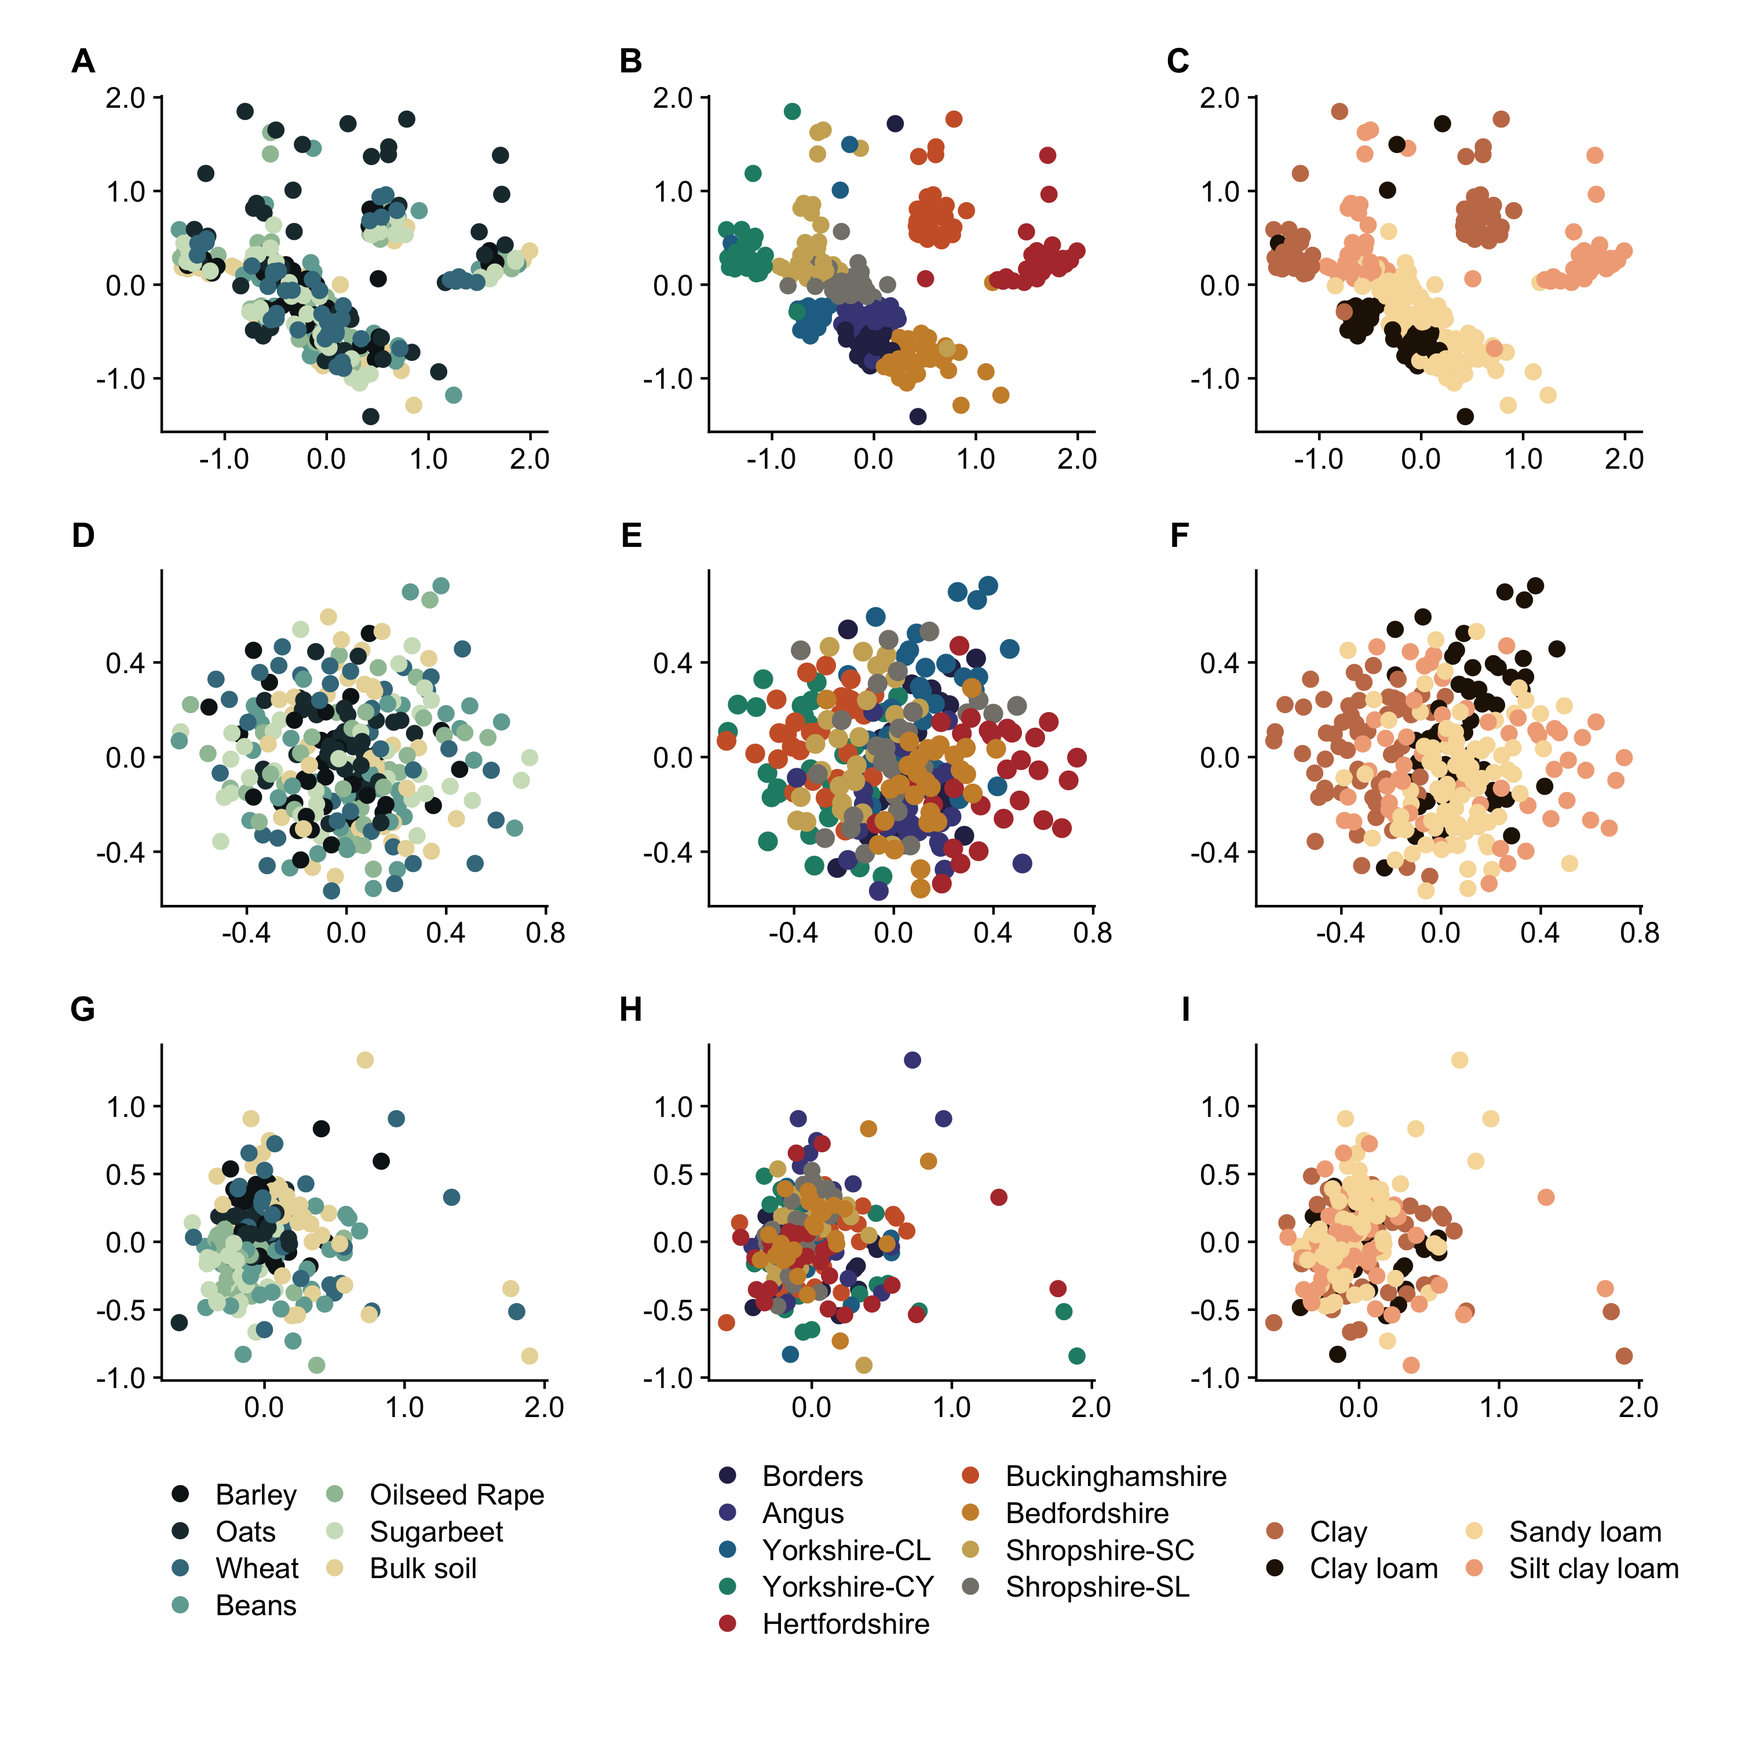
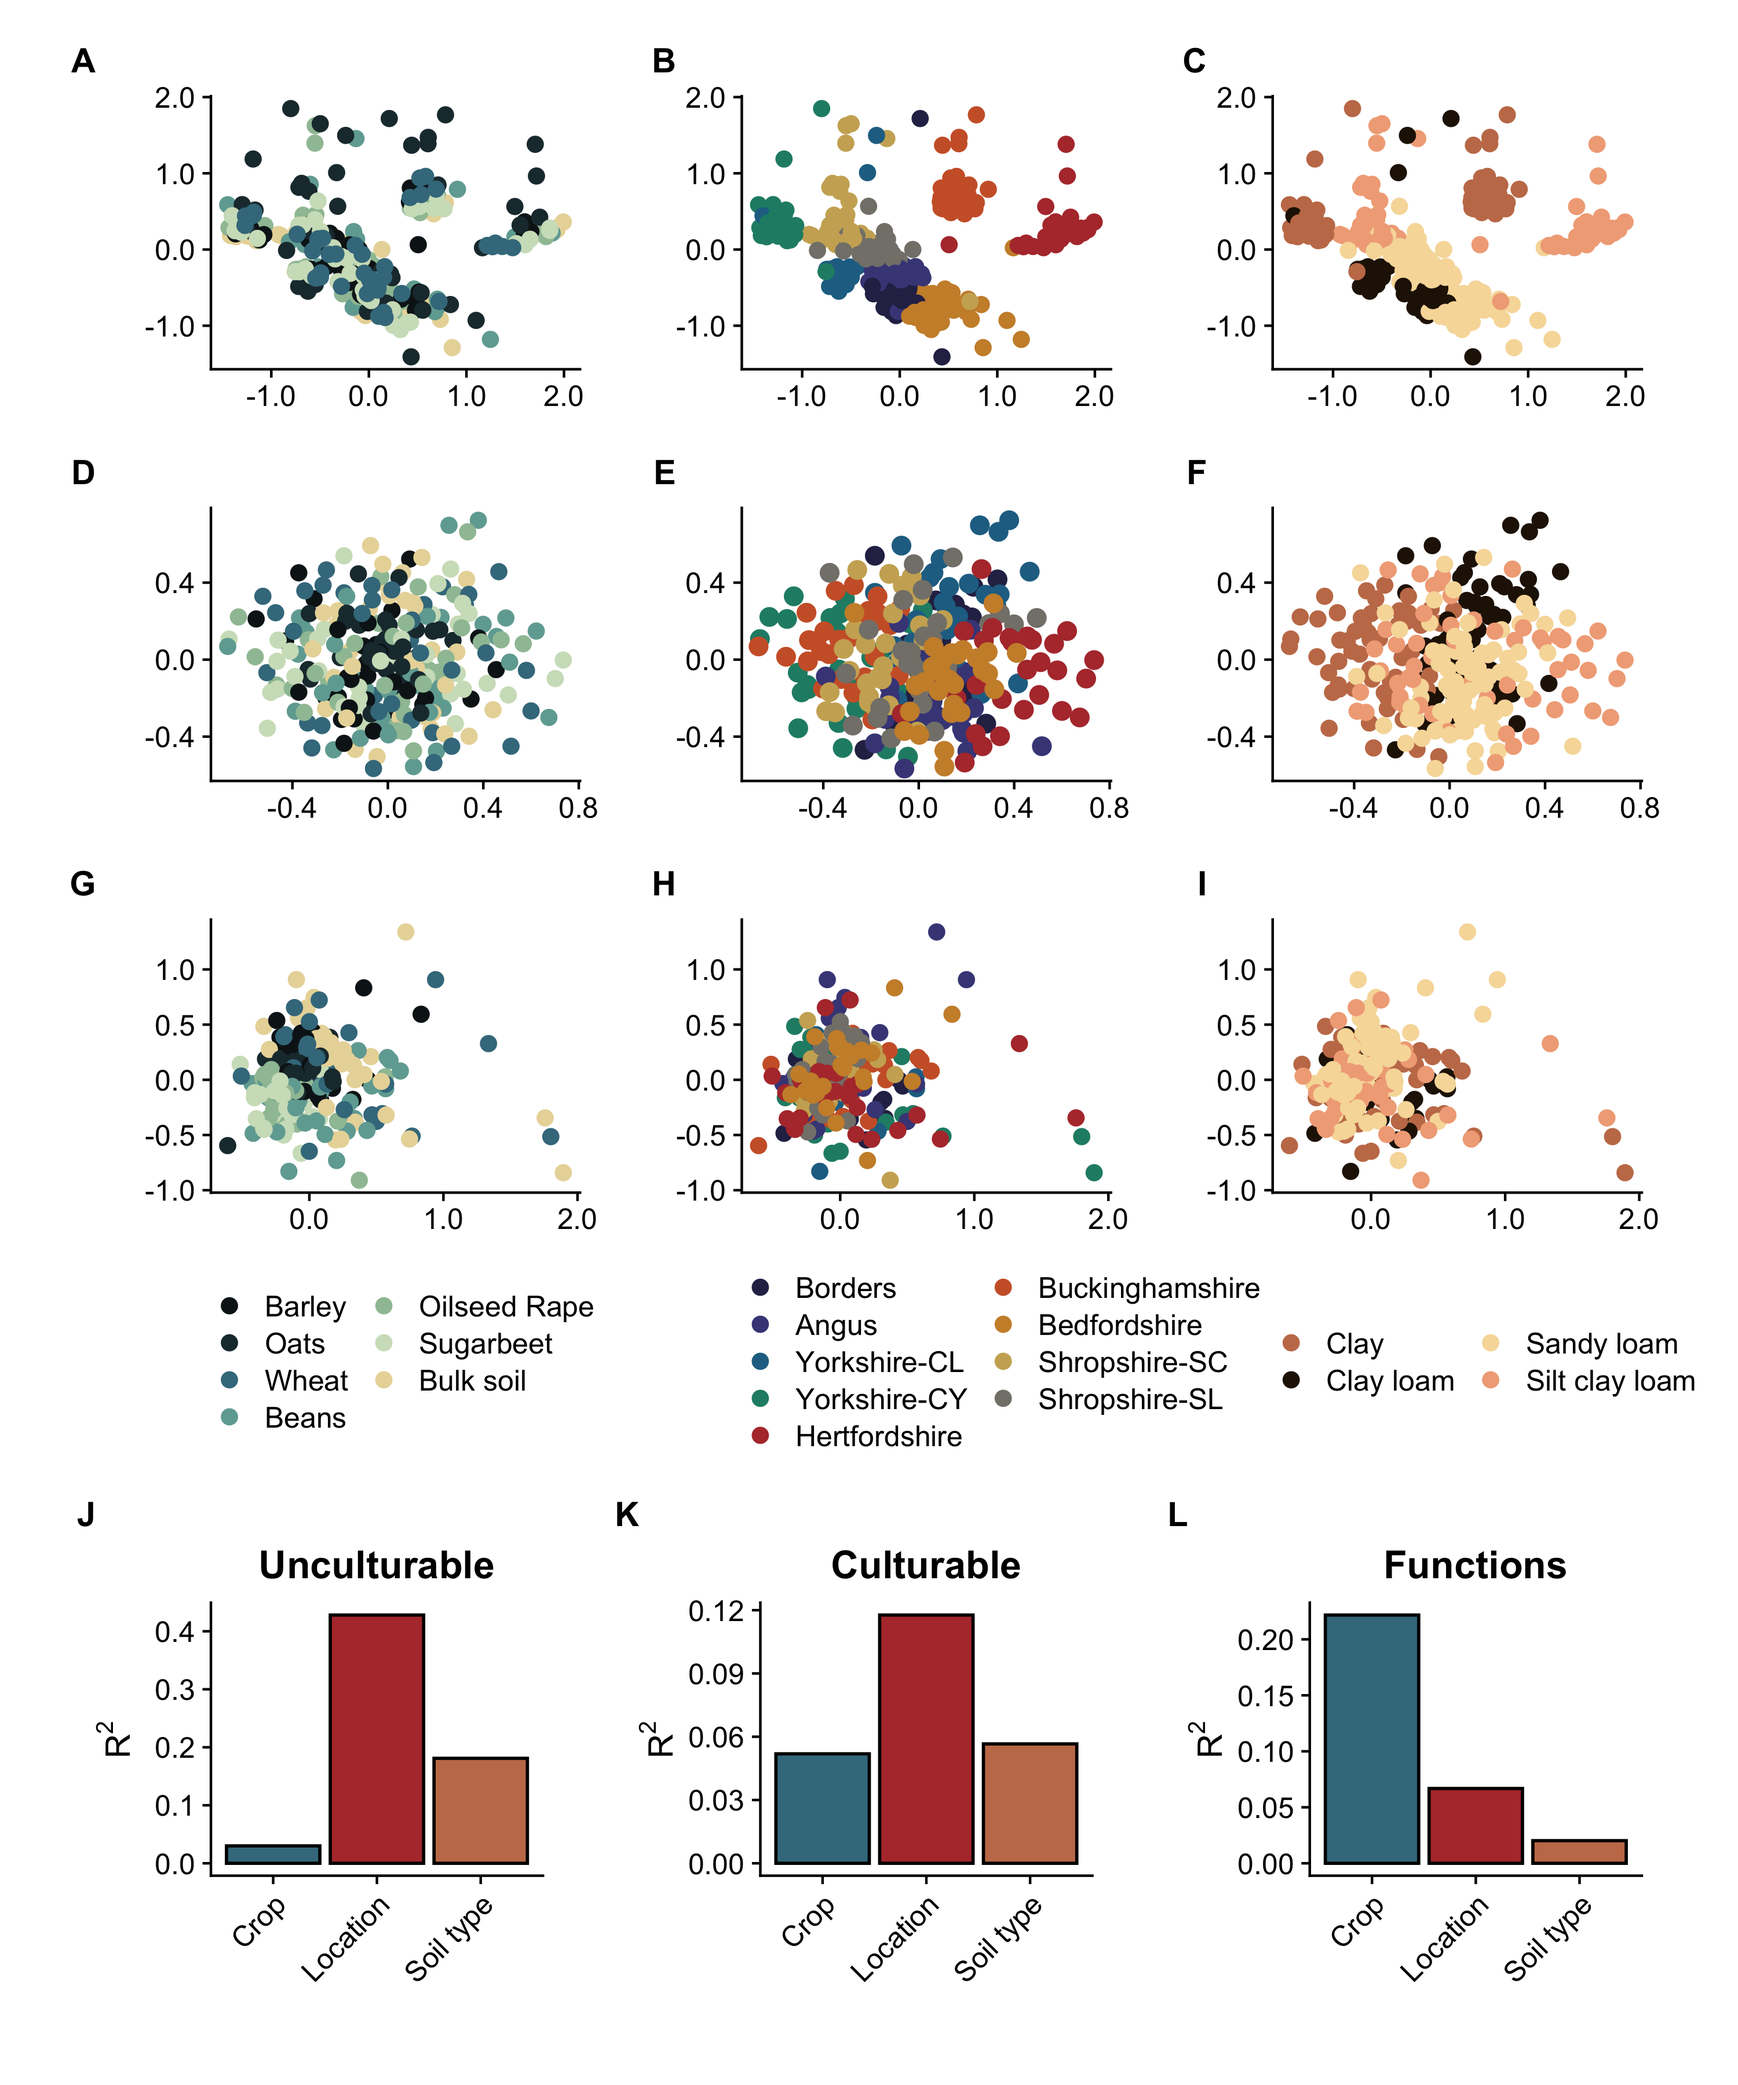
Added new Permanova and anosim plots

diff --git a/Comparisons/concat_figs.md b/Comparisons/concat_figs.md
@@ -1,7 +1,7 @@
 Paper figures
 ================
 Rodrigo Taketani
-2025-09-16
+2025-09-22
 
 # Paper figures
 
@@ -27,7 +27,77 @@ load("funct_figs.RData")
 library(ggplot2)
 library(scales)
 
-nmds_plot_comb_uncult / nmds_plot_comb_isolates / nmds_func + plot_annotation(tag_levels = 'A') &
+# Make Permanova values plot
+
+df_unc <- data.frame(
+  Factor = c("Crop", "Location", "Soil type"),
+  R2 = c(0.03, 0.428, 0.181),
+  Color = c("#40798c", "#b33939", "#c57b57")
+)
+
+# Plot
+bar_unc <- ggplot(df_unc, aes(x = Factor, y = R2, fill = Factor)) +
+  geom_bar(stat = "identity", color = "black") +
+  scale_fill_manual(values = df_unc$Color) +
+  labs(
+    title = "Unculturable",
+    y = expression(R^2),   # <- superscript 2
+    x = NULL
+  ) +
+  cowplot::theme_cowplot()+
+  theme(
+    legend.position = "none",
+    plot.title = element_text(hjust = 0.5, face = "bold"),
+    axis.text.x = element_text(angle = 45, hjust = 1)
+  )
+
+df_cult <- data.frame(
+  Factor = c("Crop", "Location", "Soil type"),
+  R2 = c(0.0519, 0.1177, 0.0566),
+  Color = c("#40798c", "#b33939", "#c57b57")
+)
+
+# Plot
+bar_cult <- ggplot(df_cult, aes(x = Factor, y = R2, fill = Factor)) +
+  geom_bar(stat = "identity", color = "black") +
+  scale_fill_manual(values = df_cult$Color) +
+  labs(
+    title = "Culturable",
+    y = expression(R^2),   # <- superscript 2
+    x = NULL
+  ) +
+  cowplot::theme_cowplot()+
+  theme(
+    legend.position = "none",
+    plot.title = element_text(hjust = 0.5, face = "bold"),
+    axis.text.x = element_text(angle = 45, hjust = 1)
+  )
+
+df_func <- data.frame(
+  Factor = c("Crop", "Location", "Soil type"),
+  R2 = c(0.2217, 0.0668, 0.0202),
+  Color = c("#40798c", "#b33939", "#c57b57")
+)
+
+# Plot
+bar_func <- ggplot(df_func, aes(x = Factor, y = R2, fill = Factor)) +
+  geom_bar(stat = "identity", color = "black") +
+  scale_fill_manual(values = df_func$Color) +
+  labs(
+    title = "Functions",
+    y = expression(R^2),   # <- superscript 2
+    x = NULL
+  ) +
+  cowplot::theme_cowplot()+
+  theme(
+    legend.position = "none",
+    plot.title = element_text(hjust = 0.5, face = "bold"),
+    axis.text.x = element_text(angle = 45, hjust = 1)
+  )
+
+perm_bars <- bar_unc + bar_cult + bar_func 
+
+nmds_plot_comb_uncult / nmds_plot_comb_isolates / nmds_func / perm_bars + plot_annotation(tag_levels = 'A') &
   theme(plot.tag = element_text(size = 14, face = "bold", hjust = 1, vjust = -1), 
     plot.tag.position = c(0, 1),
     plot.margin = margin(20, 20, 20, 20))
@@ -36,15 +106,99 @@ nmds_plot_comb_uncult / nmds_plot_comb_isolates / nmds_func + plot_annotation(ta
     ## Warning in plot_theme(plot): The `labels` theme element is not defined in the element hierarchy.
     ## The `labels` theme element is not defined in the element hierarchy.
 
-![](concat_figs_files/figure-gfm/unnamed-chunk-2-1.png)<!-- --> \##
-Alpha diversity
+![](concat_figs_files/figure-gfm/unnamed-chunk-2-1.png)<!-- -->
+
+Also adding a ANOSIM barplot
+
+``` r
+ library(patchwork)
+library(ggplot2)
+library(scales)
+
+# Make Permanova values plot
+
+df_unc <- data.frame(
+  Factor = c("Crop", "Location", "Soil type"),
+  R2 = c(0.02727, 0.936, 0.4326),
+  Color = c("#40798c", "#b33939", "#c57b57")
+)
+
+# Plot
+bar_unc <- ggplot(df_unc, aes(x = Factor, y = R2, fill = Factor)) +
+  geom_bar(stat = "identity", color = "black") +
+  scale_fill_manual(values = df_unc$Color) +
+  labs(
+    title = "Unculturable",
+    y = "R",   # <- superscript 2
+    x = NULL
+  ) +
+  cowplot::theme_cowplot()+
+  theme(
+    legend.position = "none",
+    plot.title = element_text(hjust = 0.5, face = "bold"),
+    axis.text.x = element_text(angle = 45, hjust = 1)
+  )
+
+df_cult <- data.frame(
+  Factor = c("Crop", "Location", "Soil type"),
+  R2 = c(0.0669, 0.2176, 0.1734),
+  Color = c("#40798c", "#b33939", "#c57b57")
+)
+
+# Plot
+bar_cult <- ggplot(df_cult, aes(x = Factor, y = R2, fill = Factor)) +
+  geom_bar(stat = "identity", color = "black") +
+  scale_fill_manual(values = df_cult$Color) +
+  labs(
+    title = "Culturable",
+    y = "R",   # <- superscript 2
+    x = NULL
+  ) +
+  cowplot::theme_cowplot()+
+  theme(
+    legend.position = "none",
+    plot.title = element_text(hjust = 0.5, face = "bold"),
+    axis.text.x = element_text(angle = 45, hjust = 1)
+  )
+
+df_func <- data.frame(
+  Factor = c("Crop", "Location", "Soil type"),
+  R2 = c(0.2437, 0.03378, 0.0087),
+  Color = c("#40798c", "#b33939", "#c57b57")
+)
+
+# Plot
+bar_func <- ggplot(df_func, aes(x = Factor, y = R2, fill = Factor)) +
+  geom_bar(stat = "identity", color = "black") +
+  scale_fill_manual(values = df_func$Color) +
+  labs(
+    title = "Functions",
+    y = "R",   # <- superscript 2
+    x = NULL
+  ) +
+  cowplot::theme_cowplot()+
+  theme(
+    legend.position = "none",
+    plot.title = element_text(hjust = 0.5, face = "bold"),
+    axis.text.x = element_text(angle = 45, hjust = 1)
+  )
+
+ANOSIM_bars <- bar_unc + bar_cult + bar_func + plot_annotation(tag_levels = 'A') &
+  theme(plot.tag = element_text(size = 14, face = "bold"))
+
+ANOSIM_bars
+```
+
+![](concat_figs_files/figure-gfm/unnamed-chunk-3-1.png)<!-- -->
+
+## Alpha diversity
 
 ``` r
 alpha_combined_plot_uncult / alpha_shannon_isolates + plot_annotation(tag_levels = 'A') &
   theme(plot.tag = element_text(size = 14, face = "bold"))
 ```
 
-![](concat_figs_files/figure-gfm/unnamed-chunk-3-1.png)<!-- -->
+![](concat_figs_files/figure-gfm/unnamed-chunk-4-1.png)<!-- -->
 
 ## Functions
 
@@ -86,4 +240,4 @@ layout
     ## `label` cannot be a <ggplot2::element_blank> object.
     ## `label` cannot be a <ggplot2::element_blank> object.
 
-![](concat_figs_files/figure-gfm/unnamed-chunk-4-1.png)<!-- -->
+![](concat_figs_files/figure-gfm/unnamed-chunk-5-1.png)<!-- -->
